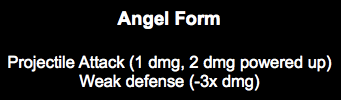
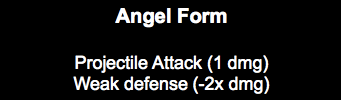
cleaned up game over quick. nothing great, but I think will work

Changed region(s): [[0.0, 0.54, 0.9971, 0.96], [0.3226, 0.06, 0.6745, 0.3]]

diff --git a/android/assets/game.tsx b/android/assets/game.tsx
@@ -1,5 +1,5 @@
 <?xml version="1.0" encoding="UTF-8"?>
-<tileset name="game" tilewidth="960" tileheight="540" tilecount="56" columns="0">
+<tileset name="game" tilewidth="960" tileheight="540" tilecount="58" columns="0">
  <grid orientation="orthogonal" width="1" height="1"/>
  <tile id="0">
   <image width="163" height="50" source="../../input_assets/game/play_down.png"/>
@@ -168,5 +168,11 @@
  </tile>
  <tile id="70">
   <image width="543" height="81" source="../../input_assets/death/intro1.png"/>
+ </tile>
+ <tile id="71">
+  <image width="494" height="76" source="../../input_assets/death/endmessage.png"/>
+ </tile>
+ <tile id="72">
+  <image width="289" height="42" source="../../input_assets/death/fightagain.png"/>
  </tile>
 </tileset>

diff --git a/core/src/com/gameoff/game/managers/GameOverManager.java b/core/src/com/gameoff/game/managers/GameOverManager.java
@@ -11,20 +11,22 @@ import com.kyperbox.objects.GameLayer;
 
 public class GameOverManager extends StateManager {
 
+	/*
 	BasicGameObject youdied;
-
 	BasicGameObject menu, replay;
 	BasicGameObject selector;
 
 	int selected = 0;
-
 	Array<BasicGameObject> menuItems;
+	*/
 
+
+	/*
 	public GameOverManager() {
 
 		menuItems = new Array<BasicGameObject>();
 
-	}
+	}*/
 
 	@Override
 	public void addLayerSystems(GameState state) {
@@ -33,6 +35,7 @@ public class GameOverManager extends StateManager {
 
 	@Override
 	public void init(GameState state) {
+		/*
 		menuItems.clear();
 		GameLayer ui = state.getUiLayer();
 
@@ -55,8 +58,21 @@ public class GameOverManager extends StateManager {
 		float bobTime = 2f;
 		youdied.addAction(Actions.sequence(Actions.moveBy(0, bobAmount * .5f, bobTime * .5f), Actions.repeat(-1,
 				Actions.sequence(Actions.moveBy(0, -bobAmount, bobTime), Actions.moveBy(0, bobAmount, bobTime)))));
+		*/
+
+		BasicGameObject text = (BasicGameObject)state.getForegroundLayer().getGameObject("endmessage");
+    text.clearActions();
+    text.setColor(1,1,1,0);
+    text.addAction(Actions.fadeIn(0.75f));
+
+    text = (BasicGameObject)state.getForegroundLayer().getGameObject("fightagain");
+    text.clearActions();
+    text.setColor(1,1,1,0);
+    text.addAction(Actions.sequence(Actions.delay(1.0f), Actions.fadeIn(0.75f)));
+
 	}
 
+	/*
 	public void setSelectedIndex(int index) {
 		selected = index;
 		BasicGameObject so = menuItems.get(index);
@@ -82,11 +98,16 @@ public class GameOverManager extends StateManager {
 	boolean upJustPressed = false;
 	boolean downPressed = false;
 	boolean downJustPressed = false;
+	*/
 
 	@Override
 	public void update(GameState state, float delta) {
 
 		GameInput input = state.getInput();
+    if((input.inputJustPressed(Inputs.ATTACK)) || (input.inputJustPressed(Inputs.TRANSFORM))) {
+      goToMenu();
+    }
+		/*
 		float threshold = .2f;
 		float inputUp = input.inputValue(Inputs.UP);
 		float inputDown = input.inputValue(Inputs.DOWN);
@@ -121,10 +142,11 @@ public class GameOverManager extends StateManager {
 				goToMenu();
 			}
 		}
+		*/
 	}
 	
 	public void goToMenu() {
-		getState().getGame().setGameState("title");
+		getState().getGame().setGameState("instructions");
 	}
 
 	@Override

diff --git a/core/src/com/gameoff/game/objects/Player.java b/core/src/com/gameoff/game/objects/Player.java
@@ -533,10 +533,9 @@ public class Player extends DirectionEntity implements AnimationListener {
 
 				float dmg = amount * m_damageMultiplier;
 				if (form == Form.Angel) {
-					// take triple damage when angel!
+					// take double damage when angel!
 					getHealth().changeHealthNoListener(-amount);
-					getHealth().changeHealthNoListener(-amount);
-					dmg = amount * m_damageMultiplier * 3;
+					dmg = amount * m_damageMultiplier * 2;
 				}
 
 				// add back health if you have the shield
@@ -858,7 +857,17 @@ public class Player extends DirectionEntity implements AnimationListener {
 						c.collect();
 
 					}
-
+				} else if (this.form != Form.Angel) 
+				{
+					//instant death!
+				  if (target instanceof Pit)
+				  {
+					  if (target.getCollisionBounds().contains(getCollisionBounds()))
+					  {
+					  	//TODO:Sound
+					  	getHealth().changeCurrentHealth(-100);
+					  }
+				  }
 				}
 			}
 
@@ -1066,7 +1075,7 @@ public class Player extends DirectionEntity implements AnimationListener {
 	public void activateWeaponDoubleDamage() {
 		m_weaponDamageMultiplier = 2f;
 		if (melee != null)
-			melee.setDamage(m_weaponDamageMultiplier * 3);
+			melee.setDamage(m_weaponDamageMultiplier * 2);
 	}
 
 	// melee attack
@@ -1295,7 +1304,7 @@ public class Player extends DirectionEntity implements AnimationListener {
 				melee.lifetime = MELEE_LIFE;
 				melee.getAnimation().setAnimation(MELEE_ATTACK, PlayMode.NORMAL);
 				setupMelee(melee);
-				melee.setDamage(m_weaponDamageMultiplier * 3);
+				melee.setDamage(m_weaponDamageMultiplier * 2);
 
 				getGameLayer().addGameObject(melee, KyperBoxGame.NULL_PROPERTIES);
 

diff --git a/core/src/com/gameoff/game/managers/InstructionsManager.java b/core/src/com/gameoff/game/managers/InstructionsManager.java
@@ -106,7 +106,7 @@ public class InstructionsManager extends StateManager {
   public void update(GameState state, float delta) {
     
     GameInput input = state.getInput();
-    if(input.inputJustPressed(Inputs.ATTACK)) {
+    if((input.inputJustPressed(Inputs.ATTACK)) || (input.inputJustPressed(Inputs.TRANSFORM))) {
       playGame();
     }
 
